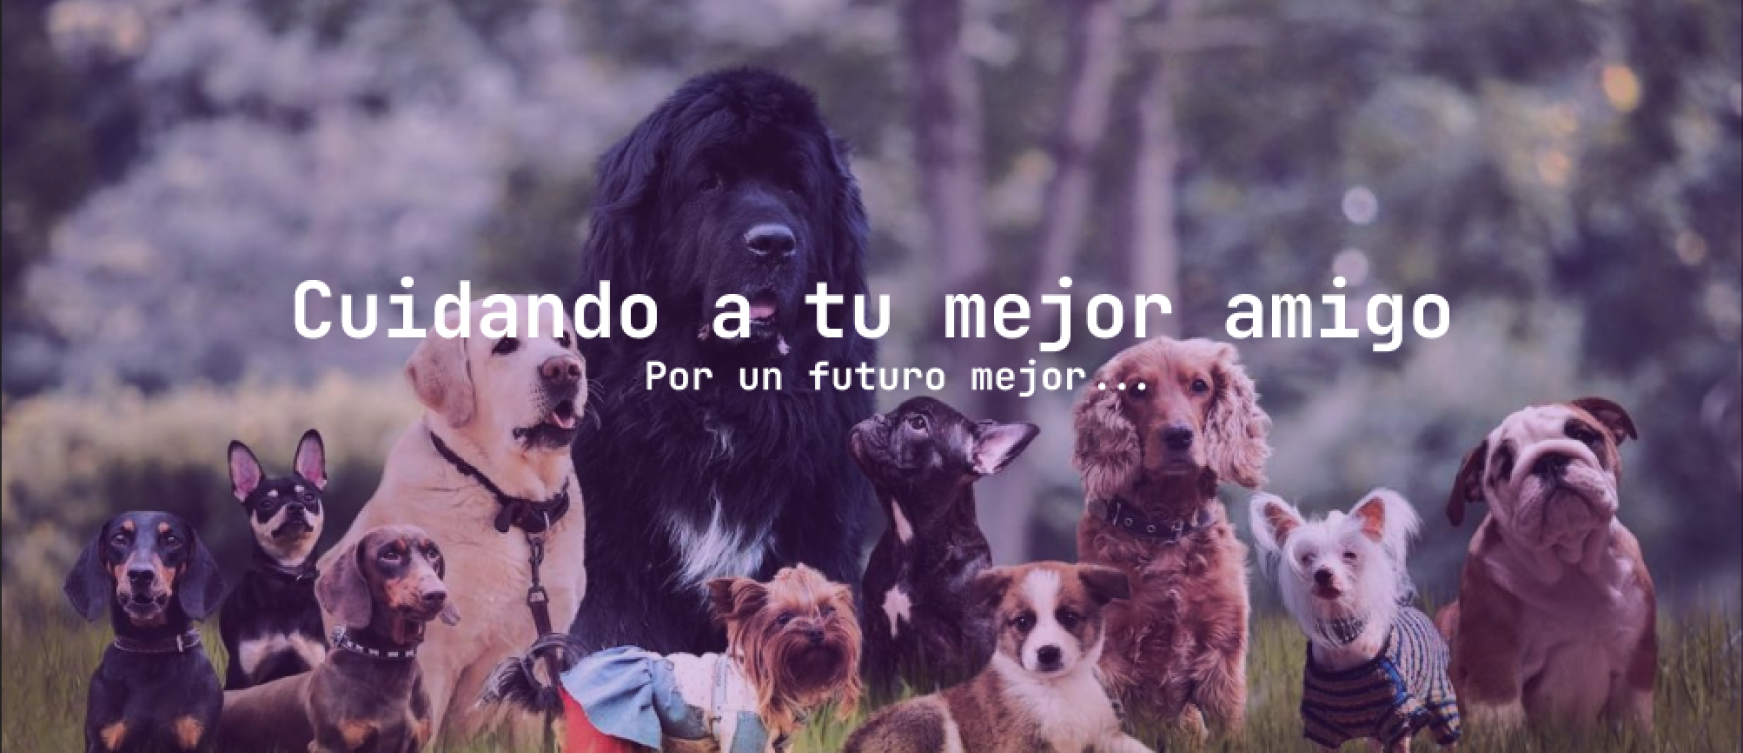
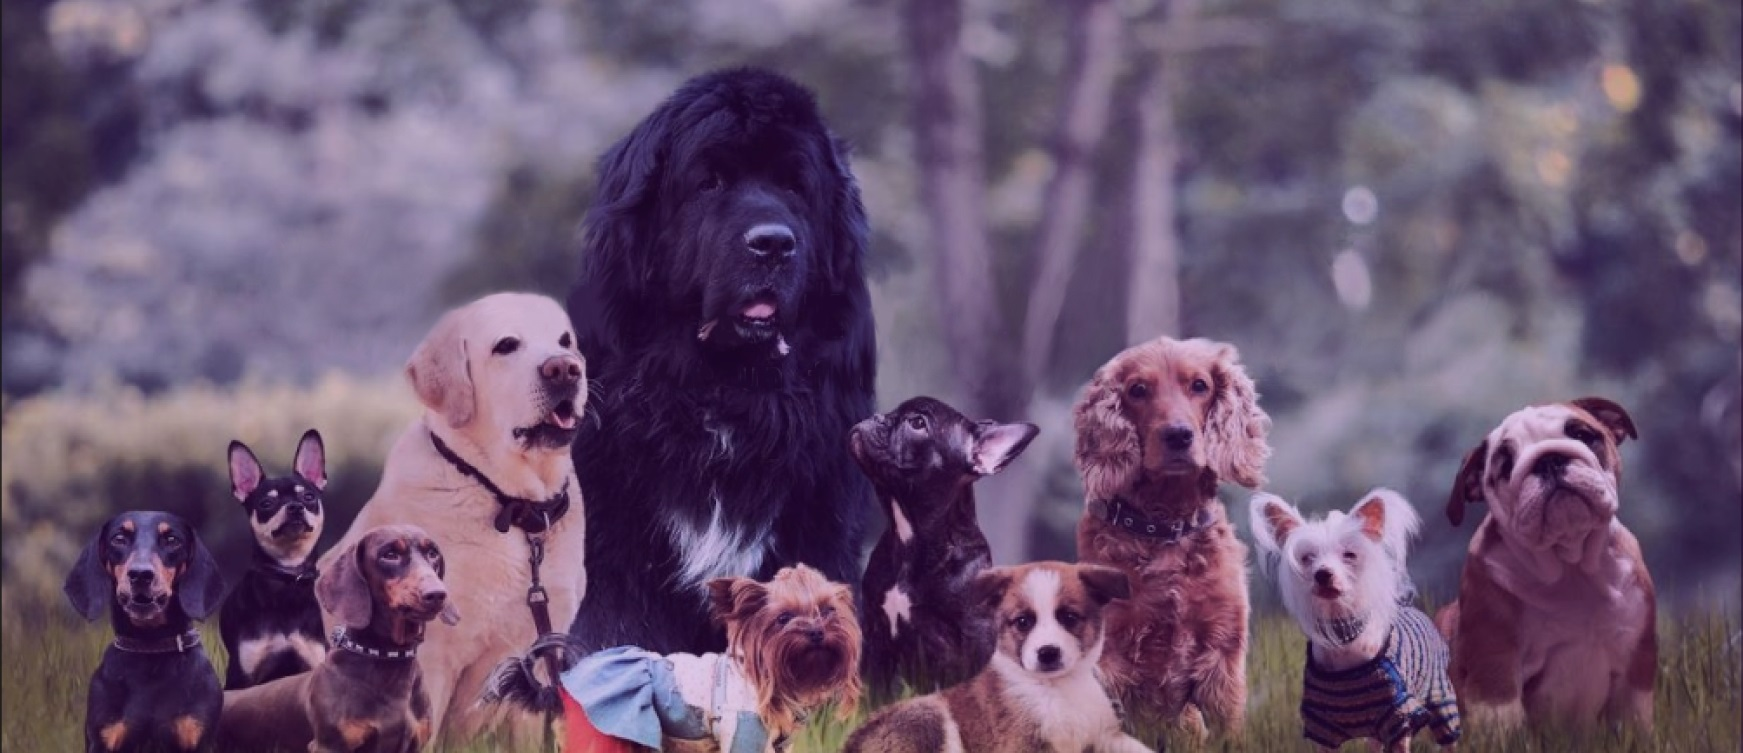
Home actualizado

diff --git a/pet_hotel/templates/pet_hotel/home.html b/pet_hotel/templates/pet_hotel/home.html
@@ -2,6 +2,11 @@
 {% block content %}
 {% load static %}
 
+<style>.caption-center{
+    top: 30%;
+}
+</style>
+
 <div id="carouselExampleIndicators" class="carousel slide" data-bs-ride="true">
     <div class="carousel-indicators">
         <button type="button" data-bs-target="#carouselExampleIndicators" data-bs-slide-to="0" class="active"
@@ -11,17 +16,48 @@
         <button type="button" data-bs-target="#carouselExampleIndicators" data-bs-slide-to="2"
             aria-label="Slide 3"></button>
     </div>
-    <div class="carousel-inner">
+
+
+
+    <div class="carousel-inner" >
         <div class="carousel-item active">
             <img src="{% static 'images/imgHome1.png' %}" class="d-block w-100" alt="...">
+                <div class="carousel-caption d-md-block caption-center">
+                
+                    <section class="title1">     
+                      Cuidando a tu mejor amigo  
+                    </section>
+                    <section class="subtitle1">     
+                       Por un futuro mejor...  
+                    </section>            
+                        
+            </div>
         </div>
+
         <div class="carousel-item">
             <img src="{% static 'images/imgHome2.png' %}" class="d-block w-100" alt="...">
+            <div class="carousel-caption d-md-block caption-center">
+                <section class="title2">     
+                    Cuidando a tu mejor amigo  
+                </section>
+                <section class="subtitle2">     
+                    Por un futuro mejor...  
+                </section>  
+            </div>          
         </div>
         <div class="carousel-item">
             <img src="{% static 'images/imgHome3.png' %}" class="d-block w-100" alt="...">
+            <div class="carousel-caption d-md-block caption-center">
+                <section class="title3">     
+                    Cuidando a tu mejor amigo  
+                </section>
+                <section class="subtitle3">     
+                    Por un futuro mejor...  
+                </section>  
+            </div>          
         </div>
     </div>
+
     <button class="carousel-control-prev" type="button" data-bs-target="#carouselExampleIndicators"
         data-bs-slide="prev">
         <span class="carousel-control-prev-icon" aria-hidden="true"></span>
@@ -34,13 +70,268 @@
     </button>
 </div>
 
-<!--  
-  <style>
-img {
-    border-radius: 100%;
-  }
-</style>  -->
 
+
+<!-- Scrollable modal 
+<div class="modal-dialog modal-dialog-scrollable">
+    ...
+  </div>-->
+
+  
+  <!-- Modal nosotros -->
+  <div class="modal fade" id="exampleModal1" tabindex="-1" aria-labelledby="exampleModalLabel" aria-hidden="true">
+    <div class="modal-dialog">
+      <div class="modal-content">
+        <div class="modal-header">
+          <h1 class="modal-title fs-5" id="exampleModalLabel">Nosotros</h1>
+          <button type="button" class="btn-close" data-bs-dismiss="modal" aria-label="Close"></button>
+        </div>
+        <div class="modal-body">
+            Wawas se estableció con la finalidad de dar una mejor atención a los perros, creemos que se merecen el mejor
+            trato, y no solo nos referimos en su día a día con el dueño o dueña, sino en cada aspecto de su vida.
+            Cada perro no solo es un mundo, sino que también es un ser vivo con sus necesidades y sentimientos.
+            Consideramos fuertemente en el trato personalizado de cada animal. Si tú también crees se merecen lo mejor,
+            sigue a Wawas y ayúdanos a cambiar para siempre el mundo de las mascotas.<br>
+            Lorem ipsum dolor sit amet consectetur adipisicing elit. Maxime mollitia,
+            molestiae quas vel sint commodi repudiandae consequuntur voluptatum laborum
+            numquam blanditiis harum quisquam eius sed odit fugiat iusto fuga praesentium
+            optio, eaque rerum! Provident similique accusantium nemo autem. Veritatis
+            obcaecati tenetur iure eius earum ut molestias architecto voluptate aliquam
+            nihil, eveniet aliquid culpa officia aut! Impedit sit sunt quaerat, odit,
+            tenetur error, harum nesciunt ipsum debitis quas aliquid. Reprehenderit,
+            quia. Quo neque error repudiandae fuga? Ipsa laudantium molestias eos
+            sapiente officiis modi at sunt excepturi expedita sint? Sed quibusdam
+            recusandae alias error harum maxime adipisci amet laborum. Perspiciatis
+            minima nesciunt dolorem! Officiis iure rerum voluptates a cumque velit
+            quibusdam sed amet tempora. Sit laborum ab, eius fugit doloribus tenetur
+            fugiat, temporibus enim commodi iusto libero magni deleniti quod quam
+            consequuntur! Commodi minima excepturi repudiandae velit hic maxime
+            doloremque. Quaerat provident commodi consectetur veniam similique ad
+            earum omnis ipsum saepe, voluptas, hic voluptates pariatur est explicabo
+            fugiat, dolorum eligendi quam cupiditate excepturi mollitia maiores labore
+            suscipit quas? Nulla, placeat. Voluptatem quaerat non architecto ab laudantium
+            modi minima sunt esse temporibus sint culpa, recusandae aliquam numquam
+            totam ratione voluptas quod exercitationem fuga. Possimus quis earum veniam
+            quasi aliquam eligendi, placeat qui corporis!
+        </div>
+        <div class="modal-footer">
+          <button type="button" class="btn btn-primary" data-bs-dismiss="modal">cerrar</button>
+        </div>
+      </div>
+    </div>
+  </div>
+
+<!-- Modal Mision-->
+<div class="modal fade" id="exampleModal2" tabindex="-1" aria-labelledby="exampleModalLabel" aria-hidden="true">
+    <div class="modal-dialog">
+      <div class="modal-content">
+        <div class="modal-header">
+          <h1 class="modal-title fs-5" id="exampleModalLabel">Mision</h1>
+          <button type="button" class="btn-close" data-bs-dismiss="modal" aria-label="Close"></button>
+        </div>
+        <div class="modal-body">
+            La misión de Wawas, es ser reconocidos por nuestro excelencia de servicio, nuestra pasión y dedicación por
+            los altos estándares de cuidado, el respeto por las mascotas en especial la raza Canina, el compromiso para
+            crear oportunidades de cuido para la mascota querida del hogar, donde sus necesidades básicas, de salud,
+            alimentación, higiene, y más esté cubiertas, en ausencia de sus amos. <br>
+            Lorem ipsum dolor sit amet consectetur adipisicing elit. Maxime mollitia,
+            molestiae quas vel sint commodi repudiandae consequuntur voluptatum laborum
+            numquam blanditiis harum quisquam eius sed odit fugiat iusto fuga praesentium
+            optio, eaque rerum! Provident similique accusantium nemo autem. Veritatis
+            obcaecati tenetur iure eius earum ut molestias architecto voluptate aliquam
+            nihil, eveniet aliquid culpa officia aut! Impedit sit sunt quaerat, odit,
+            tenetur error, harum nesciunt ipsum debitis quas aliquid. Reprehenderit,
+            quia. Quo neque error repudiandae fuga? Ipsa laudantium molestias eos
+            sapiente officiis modi at sunt excepturi expedita sint? Sed quibusdam
+            recusandae alias error harum maxime adipisci amet laborum. Perspiciatis
+            minima nesciunt dolorem! Officiis iure rerum voluptates a cumque velit
+            quibusdam sed amet tempora. Sit laborum ab, eius fugit doloribus tenetur
+            fugiat, temporibus enim commodi iusto libero magni deleniti quod quam
+            consequuntur! Commodi minima excepturi repudiandae velit hic maxime
+            doloremque. Quaerat provident commodi consectetur veniam similique ad
+            earum omnis ipsum saepe, voluptas, hic voluptates pariatur est explicabo
+            fugiat, dolorum eligendi quam cupiditate excepturi mollitia maiores labore
+            suscipit quas? Nulla, placeat. Voluptatem quaerat non architecto ab laudantium
+            modi minima sunt esse temporibus sint culpa, recusandae aliquam numquam
+            totam ratione voluptas quod exercitationem fuga. Possimus quis earum veniam
+            quasi aliquam eligendi, placeat qui corporis!
+        </div>
+        <div class="modal-footer">
+            <button type="button" class="btn btn-primary" data-bs-dismiss="modal">cerrar</button>
+        </div>
+      </div>
+    </div>
+  </div>
+
+<!-- Modal -->
+<div class="modal fade" id="exampleModal3" tabindex="-1" aria-labelledby="exampleModalLabel" aria-hidden="true">
+    <div class="modal-dialog">
+      <div class="modal-content">
+        <div class="modal-header">
+          <h1 class="modal-title fs-5" id="exampleModalLabel">Vision</h1>
+          <button type="button" class="btn-close" data-bs-dismiss="modal" aria-label="Close"></button>
+        </div>
+        <div class="modal-body">
+            Buscamos un reconocimiento a nivel regional, en cuanto al cuidado de las mascotas, nuestros mejores amigos,
+            y entregandoles un servicio de calidad y que con el tiempo esperamos que cumplan con nuestras espectativas y
+            las del cliente entregando en un futuro el mejor dedicado especialmente al cuidado y bienestar de nuestros
+            queridos amigos. <br>
+            Lorem ipsum dolor sit amet consectetur adipisicing elit. Maxime mollitia,
+            molestiae quas vel sint commodi repudiandae consequuntur voluptatum laborum
+            numquam blanditiis harum quisquam eius sed odit fugiat iusto fuga praesentium
+            optio, eaque rerum! Provident similique accusantium nemo autem. Veritatis
+            obcaecati tenetur iure eius earum ut molestias architecto voluptate aliquam
+            nihil, eveniet aliquid culpa officia aut! Impedit sit sunt quaerat, odit,
+            tenetur error, harum nesciunt ipsum debitis quas aliquid. Reprehenderit,
+            quia. Quo neque error repudiandae fuga? Ipsa laudantium molestias eos
+            sapiente officiis modi at sunt excepturi expedita sint? Sed quibusdam
+            recusandae alias error harum maxime adipisci amet laborum. Perspiciatis
+            minima nesciunt dolorem! Officiis iure rerum voluptates a cumque velit
+            quibusdam sed amet tempora. Sit laborum ab, eius fugit doloribus tenetur
+            fugiat, temporibus enim commodi iusto libero magni deleniti quod quam
+            consequuntur! Commodi minima excepturi repudiandae velit hic maxime
+            doloremque. Quaerat provident commodi consectetur veniam similique ad
+            earum omnis ipsum saepe, voluptas, hic voluptates pariatur est explicabo
+            fugiat, dolorum eligendi quam cupiditate excepturi mollitia maiores labore
+            suscipit quas? Nulla, placeat. Voluptatem quaerat non architecto ab laudantium
+            modi minima sunt esse temporibus sint culpa, recusandae aliquam numquam
+            totam ratione voluptas quod exercitationem fuga. Possimus quis earum veniam
+            quasi aliquam eligendi, placeat qui corporis!
+        </div>
+        <div class="modal-footer">
+            <button type="button" class="btn btn-primary" data-bs-dismiss="modal">cerrar</button>
+        </div>
+      </div>
+    </div>
+  </div>
+
+
+
+  <div class="text-center nosotros-bg">
+    <div class="row align-items-start">
+        <div class="col">
+            <br><br>
+            <img src="{% static 'images/imgNosotros.png' %}" style="border-radius: 100%" width="200" height="200" />
+            <br> 
+            <button type="button" class="btn btn-primary" data-bs-toggle="modal" data-bs-target="#exampleModal1">
+                Nosotros
+              </button>
+        </div>
+        <div class="col">
+            <br><br>
+            <img src="{% static 'images/imgMision.png' %}" style="border-radius: 100%" width="200" height="200" />
+            <br>
+            <button type="button" class="btn btn-primary" data-bs-toggle="modal" data-bs-target="#exampleModal2">
+                Mision
+              </button>
+        </div>
+        <div class="col">
+            <br><br>
+            <img src="{% static 'images/imgVision.png' %}" style="border-radius: 100%" width="200" height="200" />
+            <br>
+            <button type="button" class="btn btn-primary" data-bs-toggle="modal" data-bs-target="#exampleModal3">
+                Vision
+              </button>
+        </div>
+    </div>
+
+
+    <div class="row align-items">
+        <div class="col" style="text-align:justify">
+            Wawas se estableció con la finalidad de dar una mejor atención a los perros, creemos que se merecen el mejor
+            trato, y no solo nos referimos en su día a día con el dueño o dueña, sino en cada aspecto de su vida.
+            Cada perro no solo es un mundo, sino que también es un ser vivo con sus necesidades y sentimientos.
+            Consideramos fuertemente en el trato personalizado de cada animal. Si tú también crees se merecen lo mejor,
+            sigue a Wawas y ayúdanos a cambiar para siempre el mundo de las mascotas.<br>
+            Lorem ipsum dolor sit amet consectetur adipisicing elit. Maxime mollitia,
+            molestiae quas vel sint commodi repudiandae consequuntur voluptatum laborum
+            numquam blanditiis harum quisquam eius sed odit fugiat iusto fuga praesentium
+            optio, eaque rerum! Provident similique accusantium nemo autem. Veritatis
+            obcaecati tenetur iure eius earum ut molestias architecto voluptate aliquam
+            nihil, eveniet aliquid culpa officia aut! Impedit sit sunt quaerat, odit,
+            tenetur error, harum nesciunt ipsum debitis quas aliquid. Reprehenderit,
+            quia. Quo neque error repudiandae fuga? Ipsa laudantium molestias eos
+            sapiente officiis modi at sunt excepturi expedita sint? Sed quibusdam
+            recusandae alias error harum maxime adipisci amet laborum. Perspiciatis
+            minima nesciunt dolorem! Officiis iure rerum voluptates a cumque velit
+            quibusdam sed amet tempora. Sit laborum ab, eius fugit doloribus tenetur
+            fugiat, temporibus enim commodi iusto libero magni deleniti quod quam
+            consequuntur! Commodi minima excepturi repudiandae velit hic maxime
+            doloremque. Quaerat provident commodi consectetur veniam similique ad
+            earum omnis ipsum saepe, voluptas, hic voluptates pariatur est explicabo
+            fugiat, dolorum eligendi quam cupiditate excepturi mollitia maiores labore
+            suscipit quas? Nulla, placeat. Voluptatem quaerat non architecto ab laudantium
+            modi minima sunt esse temporibus sint culpa, recusandae aliquam numquam
+            totam ratione voluptas quod exercitationem fuga. Possimus quis earum veniam
+            quasi aliquam eligendi, placeat qui corporis!
+        </div>
+        <div class="col" style="text-align:justify">
+            La misión de Wawas, es ser reconocidos por nuestro excelencia de servicio, nuestra pasión y dedicación por
+            los altos estándares de cuido, el respeto por las mascotas en especial la raza Canina, el compromiso para
+            crear oportunidades de cuido para la mascota querida del hogar, donde sus necesidades básicas, de salud,
+            alimentación, higiene, y más esté cubiertas, en ausencia de sus amos. <br>
+            Lorem ipsum dolor sit amet consectetur adipisicing elit. Maxime mollitia,
+            molestiae quas vel sint commodi repudiandae consequuntur voluptatum laborum
+            numquam blanditiis harum quisquam eius sed odit fugiat iusto fuga praesentium
+            optio, eaque rerum! Provident similique accusantium nemo autem. Veritatis
+            obcaecati tenetur iure eius earum ut molestias architecto voluptate aliquam
+            nihil, eveniet aliquid culpa officia aut! Impedit sit sunt quaerat, odit,
+            tenetur error, harum nesciunt ipsum debitis quas aliquid. Reprehenderit,
+            quia. Quo neque error repudiandae fuga? Ipsa laudantium molestias eos
+            sapiente officiis modi at sunt excepturi expedita sint? Sed quibusdam
+            recusandae alias error harum maxime adipisci amet laborum. Perspiciatis
+            minima nesciunt dolorem! Officiis iure rerum voluptates a cumque velit
+            quibusdam sed amet tempora. Sit laborum ab, eius fugit doloribus tenetur
+            fugiat, temporibus enim commodi iusto libero magni deleniti quod quam
+            consequuntur! Commodi minima excepturi repudiandae velit hic maxime
+            doloremque. Quaerat provident commodi consectetur veniam similique ad
+            earum omnis ipsum saepe, voluptas, hic voluptates pariatur est explicabo
+            fugiat, dolorum eligendi quam cupiditate excepturi mollitia maiores labore
+            suscipit quas? Nulla, placeat. Voluptatem quaerat non architecto ab laudantium
+            modi minima sunt esse temporibus sint culpa, recusandae aliquam numquam
+            totam ratione voluptas quod exercitationem fuga. Possimus quis earum veniam
+            quasi aliquam eligendi, placeat qui corporis!
+        </div>
+        <div class="col" style="text-align:justify">
+            Buscamos un reconocimiento a nivel regional, en cuanto al cuidado de las mascotas, nuestros mejores amigos,
+            y entregandoles un servicio de calidad y que con el tiempo esperamos que cumplan con nuestras espectativas y
+            las del cliente entregando en un futuro el mejor dedicado especialmente al cuidado y bienestar de nuestros
+            queridos amigos. <br>
+            Lorem ipsum dolor sit amet consectetur adipisicing elit. Maxime mollitia,
+            molestiae quas vel sint commodi repudiandae consequuntur voluptatum laborum
+            numquam blanditiis harum quisquam eius sed odit fugiat iusto fuga praesentium
+            optio, eaque rerum! Provident similique accusantium nemo autem. Veritatis
+            obcaecati tenetur iure eius earum ut molestias architecto voluptate aliquam
+            nihil, eveniet aliquid culpa officia aut! Impedit sit sunt quaerat, odit,
+            tenetur error, harum nesciunt ipsum debitis quas aliquid. Reprehenderit,
+            quia. Quo neque error repudiandae fuga? Ipsa laudantium molestias eos
+            sapiente officiis modi at sunt excepturi expedita sint? Sed quibusdam
+            recusandae alias error harum maxime adipisci amet laborum. Perspiciatis
+            minima nesciunt dolorem! Officiis iure rerum voluptates a cumque velit
+            quibusdam sed amet tempora. Sit laborum ab, eius fugit doloribus tenetur
+            fugiat, temporibus enim commodi iusto libero magni deleniti quod quam
+            consequuntur! Commodi minima excepturi repudiandae velit hic maxime
+            doloremque. Quaerat provident commodi consectetur veniam similique ad
+            earum omnis ipsum saepe, voluptas, hic voluptates pariatur est explicabo
+            fugiat, dolorum eligendi quam cupiditate excepturi mollitia maiores labore
+            suscipit quas? Nulla, placeat. Voluptatem quaerat non architecto ab laudantium
+            modi minima sunt esse temporibus sint culpa, recusandae aliquam numquam
+            totam ratione voluptas quod exercitationem fuga. Possimus quis earum veniam
+            quasi aliquam eligendi, placeat qui corporis!
+        </div>
+
+    </div>
+</div>
+
+
+
+
+
+
+
+
+
+<!--
 <div class="text-center nosotros-bg">
     <div class="row align-items-start">
         <div class="col">
@@ -148,5 +439,7 @@ img {
 
     </div>
 </div>
+-->
+
 
 {% endblock content %}

diff --git a/static/styles/styles_andy.css b/static/styles/styles_andy.css
@@ -32,4 +32,42 @@
     object-position: center;
     height: 600px;
     overflow: hidden;
+
+}
+
+.title1 {
+    font-size: 340%;
+    color:rgb(255, 255, 255);
+    font-family: 'Gill Sans', 'Gill Sans MT', Calibri, 'Trebuchet MS', sans-serif;
+   
+}
+.subtitle1 {
+    font-size: 280%;
+    color:rgb(255, 255, 255);
+    font-family: 'Gill Sans', 'Gill Sans MT', Calibri, 'Trebuchet MS', sans-serif;
+
+}
+.title2 {
+    font-size: 340%;
+    color:rgb(255, 255, 255);
+    font-family: 'Gill Sans', 'Gill Sans MT', Calibri, 'Trebuchet MS', sans-serif;
+
+}
+.subtitle2 {
+    font-size: 280%;
+    color:rgb(255, 255, 255);
+    font-family: 'Gill Sans', 'Gill Sans MT', Calibri, 'Trebuchet MS', sans-serif;
+
+}
+.title3 {
+    font-size: 340%;
+    color:rgb(255, 255, 255);
+    font-family: 'Gill Sans', 'Gill Sans MT', Calibri, 'Trebuchet MS', sans-serif;
+
+}
+.subtitle3 {
+    font-size: 280%;
+    color:rgb(255, 255, 255);
+    font-family: 'Gill Sans', 'Gill Sans MT', Calibri, 'Trebuchet MS', sans-serif;
+
 }
